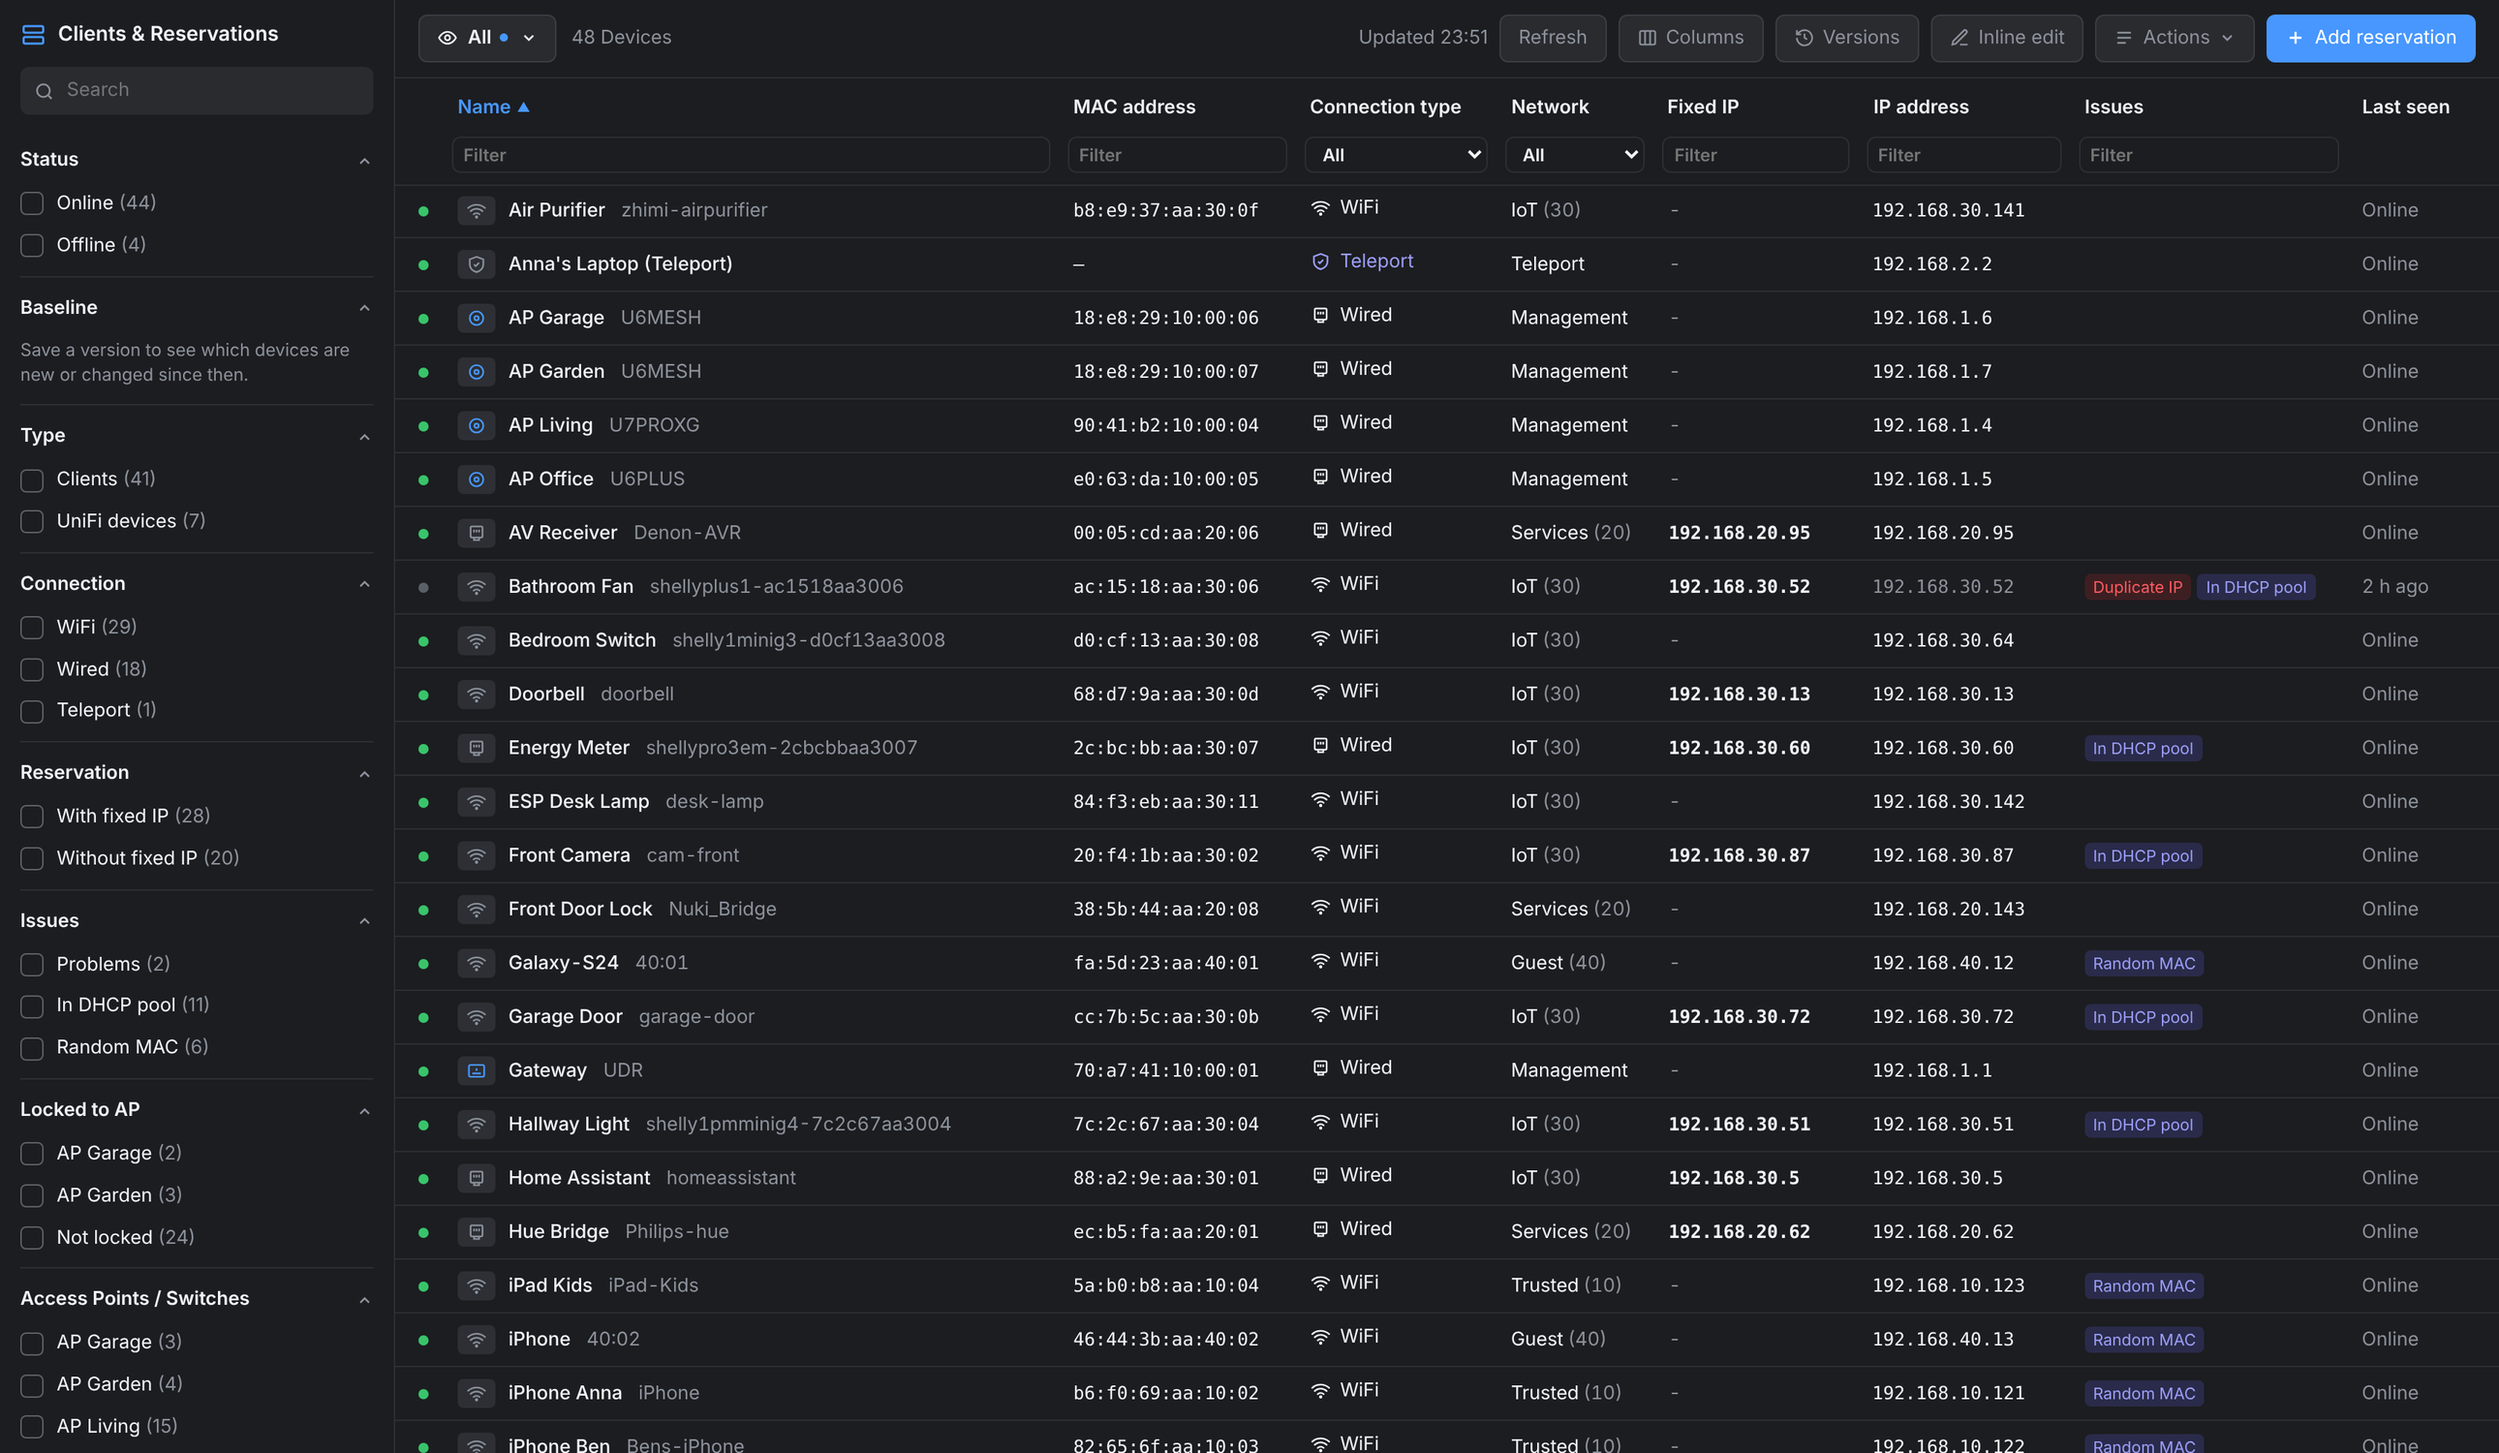
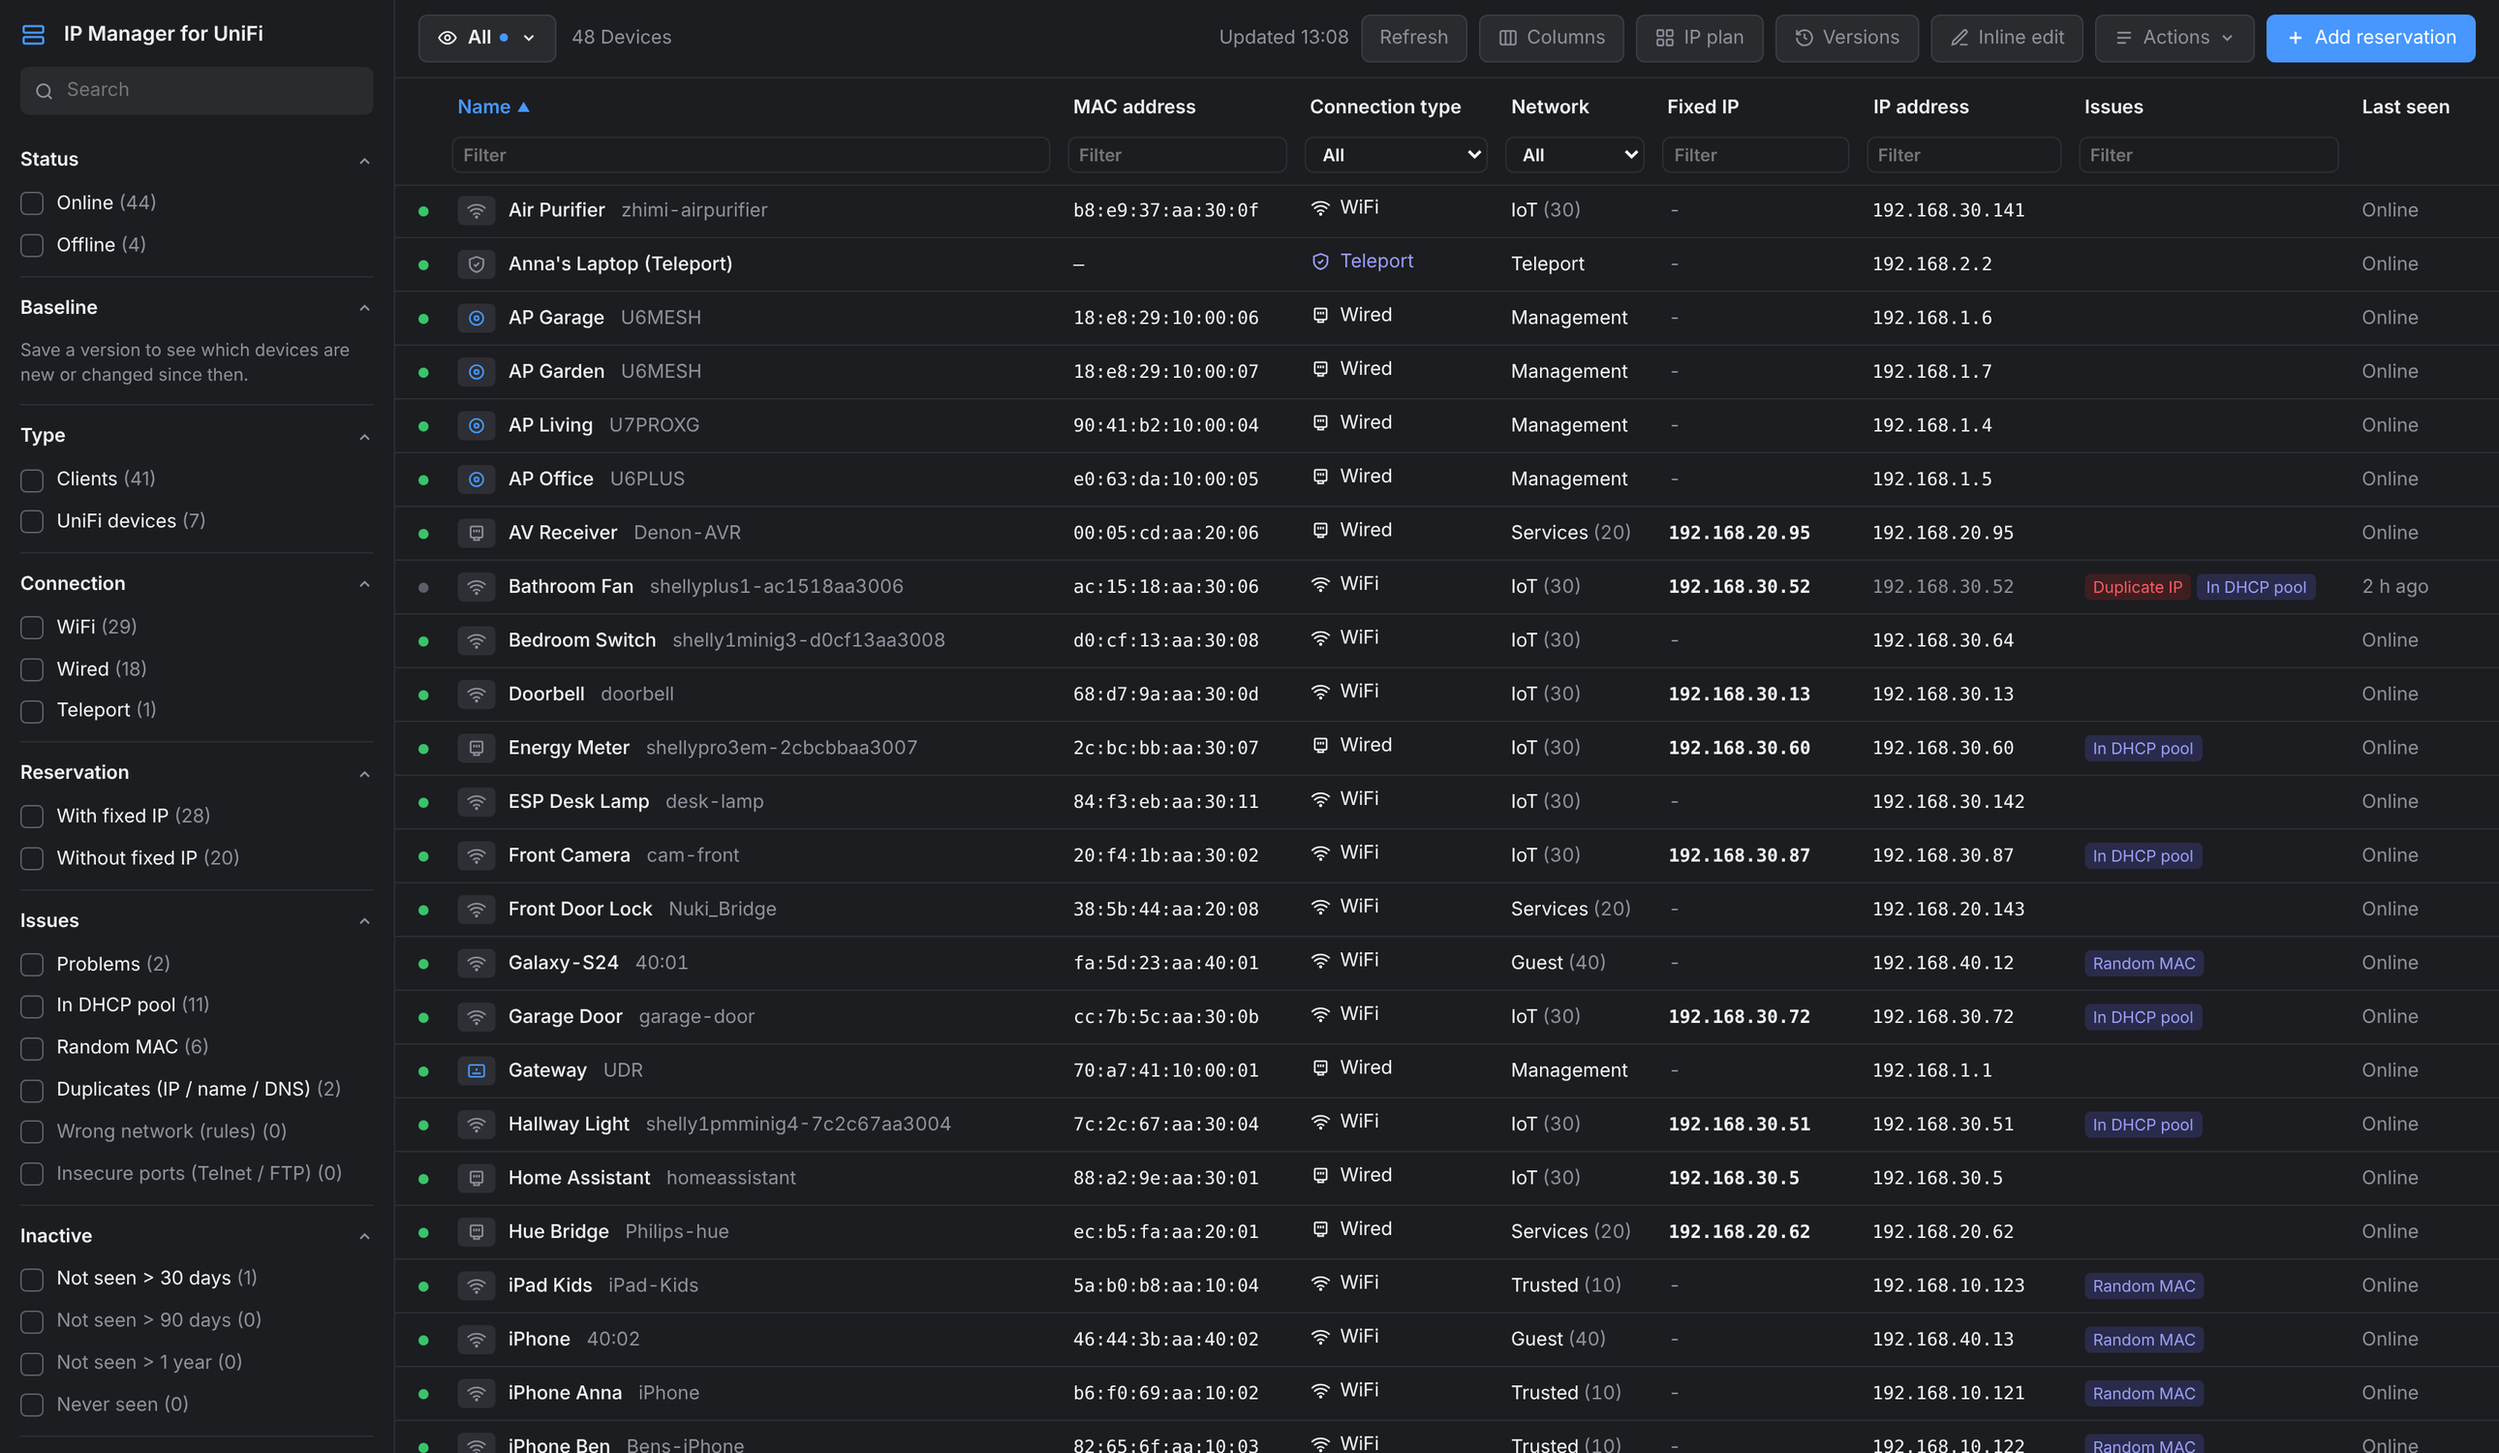
1.15.0: rename to IP Manager for UniFi
Claude-Session: https://claude.ai/code/session_01Qq55cKasRq5dm39rxnrsJV

Changed region(s): [[0.0, 0.736, 0.124, 1.0], [0.4961, 0.0, 0.6822, 0.0307], [0.031, 0.0, 0.124, 0.0307]]

diff --git a/dhcp_reservations/app/static/index.html b/dhcp_reservations/app/static/index.html
@@ -3,7 +3,7 @@
 <head>
 <meta charset="utf-8">
 <meta name="viewport" content="width=device-width, initial-scale=1">
-<title>Clients &amp; Reservations</title>
+<title>IP Manager for UniFi</title>
 <style>
 /* Layout modelled on UniFi Network › Client Devices: filter sidebar | table | detail panel */
 :root{
@@ -376,7 +376,7 @@ body.side-off .menu-btn{display:inline-flex}
 <div class="app">
   <aside id="side">
     <div class="side-head">
-      <div class="brand"><button type="button" class="brand-ic" id="btnSide" title="Hide filters" aria-label="Hide filters"><svg width="18" height="18" viewBox="0 0 24 24" fill="none" stroke="currentColor" stroke-width="2"><rect x="3" y="4" width="18" height="6" rx="1.5"/><rect x="3" y="14" width="18" height="6" rx="1.5"/><path d="M7 7h.01M7 17h.01"/></svg></button>Clients &amp; Reservations</div>
+      <div class="brand"><button type="button" class="brand-ic" id="btnSide" title="Hide filters" aria-label="Hide filters"><svg width="18" height="18" viewBox="0 0 24 24" fill="none" stroke="currentColor" stroke-width="2"><rect x="3" y="4" width="18" height="6" rx="1.5"/><rect x="3" y="14" width="18" height="6" rx="1.5"/><path d="M7 7h.01M7 17h.01"/></svg></button>IP Manager for UniFi</div>
       <div class="search"><svg width="15" height="15" viewBox="0 0 24 24" fill="none" stroke="currentColor" stroke-width="2"><circle cx="11" cy="11" r="7"/><path d="m20 20-3.5-3.5"/></svg><input type="search" id="q" placeholder="Search" aria-label="Search"></div>
     </div>
     <div class="side-scroll" id="facets"></div>
@@ -1258,7 +1258,7 @@ $("#btnClean").addEventListener("click", openClean);
 // ---------- hosts file ----------
 const hostName = v => String(v || "").normalize("NFKD").replace(/[\u0300-\u036f]/g, "").toLowerCase().replace(/[^a-z0-9.-]+/g, "-").replace(/^-+|-+$/g, "").replace(/-{2,}/g, "-");
 function exportHosts() {
-  const seen = new Set(), lines = [`# Clients & Reservations – fixed IPs and local DNS records`, `# exported ${isoDateTime(Date.now() / 1000)}`, ""];
+  const seen = new Set(), lines = [`# IP Manager for UniFi – fixed IPs and local DNS records`, `# exported ${isoDateTime(Date.now() / 1000)}`, ""];
   const list = state.clients.filter(c => c.use_fixedip && c.fixed_ip && !c.is_device).sort((a, b) => ipNum(a.fixed_ip) - ipNum(b.fixed_ip));
   for (const c of list) {
     const names = uniq([c.local_dns_record_enabled ? c.local_dns_record : "", hostName(c.name || c.hostname)].map(x => (x || "").trim().toLowerCase())).filter(n => n && !seen.has(n));

diff --git a/dhcp_reservations/app/server.py b/dhcp_reservations/app/server.py
@@ -79,7 +79,7 @@ class UnifiError(Exception):
         self.hint = hint
 
 
-CONFIG_PATH_HINT = "Settings › Add-ons (Apps) › Clients & Reservations › Configuration"
+CONFIG_PATH_HINT = "Settings › Add-ons (Apps) › IP Manager for UniFi › Configuration"
 
 
 def _norm_fp(v):
@@ -901,7 +901,7 @@ def _check_new_devices(snap):
         try:
             ha_call("/services/persistent_notification/create", {
                 "title": f"New device{'s' if len(out) > 1 else ''} in the network ({len(out)})",
-                "message": "\n".join(lines) + "\n\nOpen *Clients & Reservations* to name it or give it a fixed IP.",
+                "message": "\n".join(lines) + "\n\nOpen *IP Manager for UniFi* to name it or give it a fixed IP.",
                 "notification_id": "clients_reservations_new_" + (out[0]["mac"].replace(":", "") if len(out) == 1 else str(now))})
         except UnifiError as e:
             log("Notification failed:", e)

diff --git a/README.md b/README.md
@@ -1,5 +1,5 @@
 <p align="center">
-  <img src="dhcp_reservations/logo.png" alt="Clients & Reservations" height="80">
+  <img src="dhcp_reservations/logo.png" alt="IP Manager for UniFi" height="80">
 </p>
 
 <p align="center">
@@ -14,7 +14,7 @@
 ![Overview](docs/screenshots/overview.png)
 
 UniFi Network spreads DHCP reservations over individual client pages, and there is no single place to check which device has
-which fixed IP in which VLAN. **Clients & Reservations** is a Home Assistant add-on that gives you exactly that view. It is styled like
+which fixed IP in which VLAN. **IP Manager for UniFi** is a Home Assistant add-on that gives you exactly that view. It is styled like
 UniFi Network, and it adds bulk tools that UniFi doesn't have: subnet migration, CSV import, names from Home Assistant, and
 versions you can compare and restore.
 
@@ -93,9 +93,9 @@ versions you can compare and restore.
 
 1. Click the button above, **or** go to *Settings → Add-ons → Add-on Store → ⋮ → Repositories* and add
    `https://github.com/raphaelkoeppel/ha-unifi-clients-reservations`
-2. Install **Clients & Reservations**. Home Assistant builds the image locally, so this takes a minute.
+2. Install **IP Manager for UniFi**. Home Assistant builds the image locally, so this takes a minute.
 3. On the *Configuration* tab, enter the gateway IP, username and password, then start the add-on.
-4. Turn on *Show in sidebar*, or open it via *Open Web UI*.
+4. Turn on *Show in sidebar* (the panel is called *IP Manager*), or open it via *Open Web UI*.
 
 ## Configuration
 

diff --git a/dhcp_reservations/CHANGELOG.md b/dhcp_reservations/CHANGELOG.md
@@ -1,5 +1,8 @@
 # Changelog
 
+## 1.15.0 – 2026-10-31
+- Renamed to **IP Manager for UniFi** (sidebar panel: *IP Manager*). Nothing else changes: the add-on slug, the stored versions, views and settings, and the event `clients_reservations_new_device` stay the same.
+
 ## 1.14.0 – 2026-10-31
 Security hardening after a code review (SAST-style).
 - **Certificate pinning** for the UniFi controller: new option `certificate_fingerprint` (SHA-256). At start the add-on logs the controller's fingerprint so it can be copied; with a pin, the connection (and the UniFi login) is only accepted if the certificate matches.

diff --git a/dhcp_reservations/README.md b/dhcp_reservations/README.md
@@ -1,4 +1,4 @@
-# Clients & Reservations
+# IP Manager for UniFi
 
 All UniFi clients and DHCP reservations in one table: MAC, name, fixed IP, VLAN, connection type and issue hints.
 Edit in place, use views, replace a subnet, take names from Home Assistant, import/export CSV, and save, compare

diff --git a/dhcp_reservations/DOCS.md b/dhcp_reservations/DOCS.md
@@ -1,4 +1,4 @@
-# Clients & Reservations
+# IP Manager for UniFi
 
 Shows every known UniFi client with MAC, name, fixed IP and VLAN in one table, styled like
 UniFi Network › Client Devices. Every column can be sorted (click the header) and filtered
